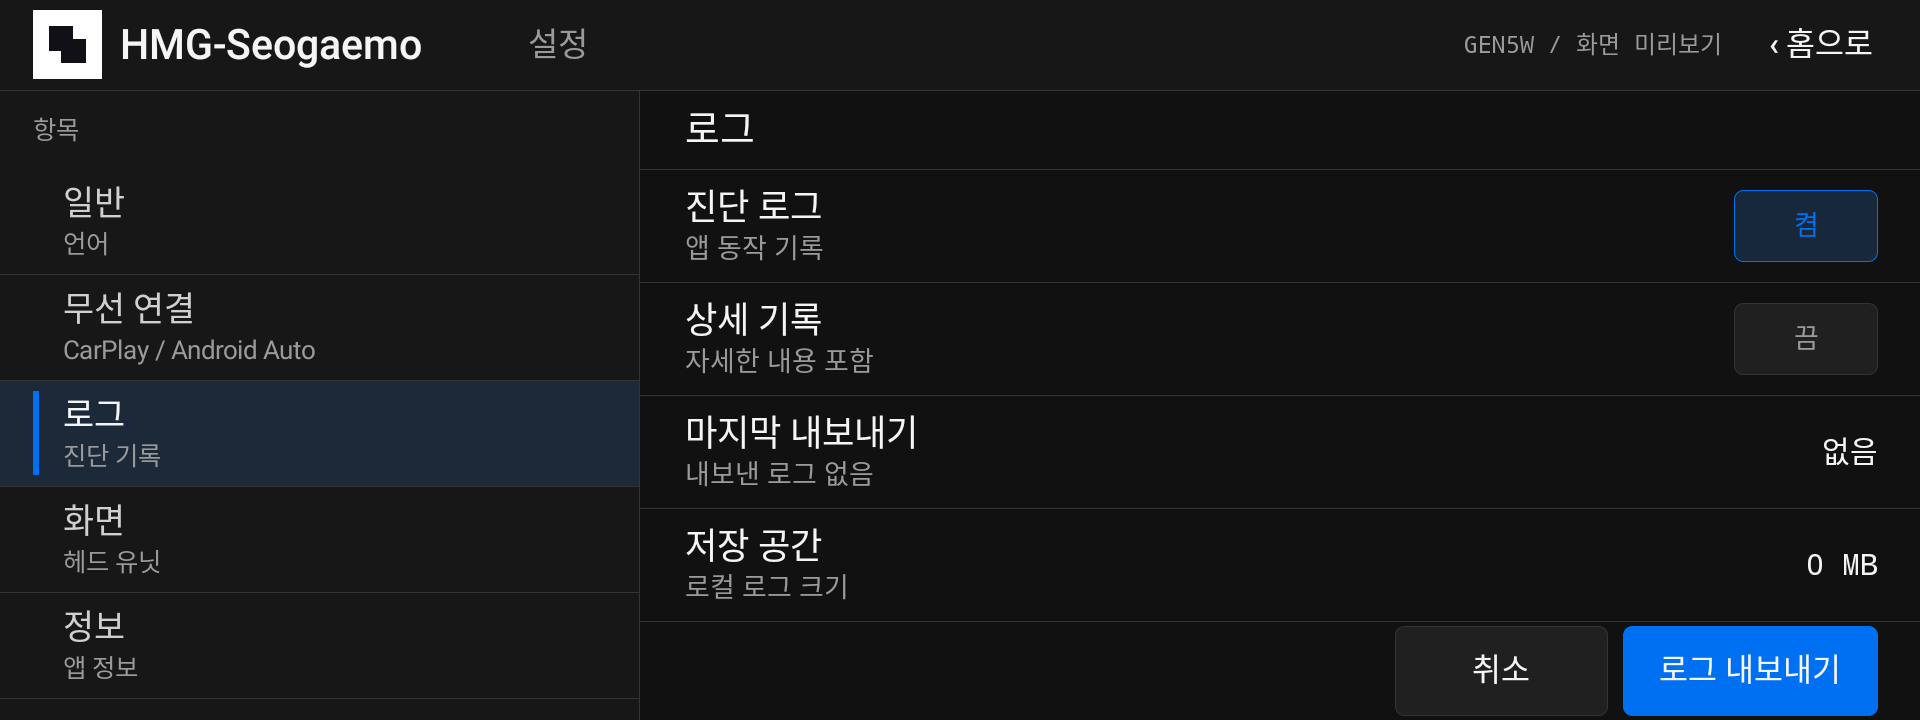
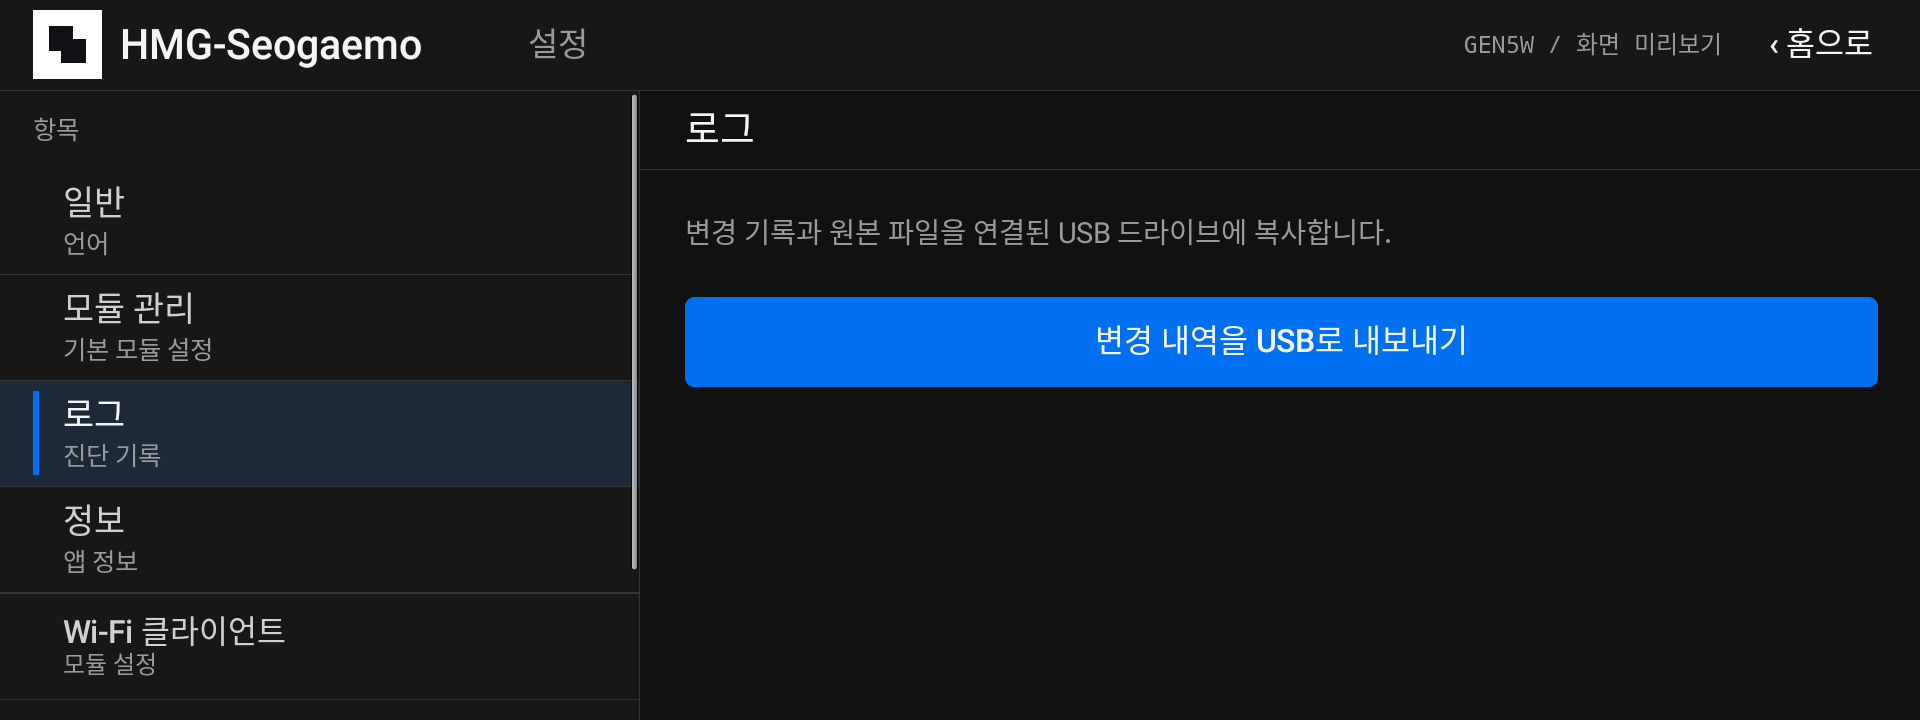
Refresh Korean UI screenshots and README

diff --git a/README.md b/README.md
@@ -1,23 +1,26 @@
 # hmg-seogaemo
 
-UI-only mock for the Gen5W head unit (1920×720, hdpi).
+Gen5W head-unit app (1920×720, hdpi) with built-in module settings and an OTA update screen. Home actions are visual placeholders.
 
 ## Screenshots
 
 ![Home](assets/home.png)
-Korean Home page 1 with six portrait mock tiles; Settings is first.
+Korean Home page 1; Settings opens the live module settings UI.
 
 ![Home page 2](assets/home-page2.png)
-Korean Home page 2 with the destructive Restart tile and remaining shortcuts.
+Korean Home page 2 with the remaining placeholder shortcuts.
 
 ![General settings](assets/settings-general.png)
-Korean Settings with the Language choice selected.
+Korean General settings with language, installed version, update check, and rollback controls.
 
-![Wireless settings](assets/settings-wireless.png)
-Korean Settings with Wireless projection selected.
+![Modules](assets/settings-modules.png)
+Korean Modules page with built-in module status. The emulator has no NEMESIS root service, so live status is unavailable in this capture.
+
+![Wireless ADB](assets/settings-wireless-adb.png)
+Korean Wireless ADB settings with connection details and guidance.
+
+![Wi-Fi client](assets/settings-wifi-client.png)
+Korean Wi-Fi client settings with its stock Wi-Fi action.
 
 ![Logs settings](assets/settings-logs.png)
-Korean Settings with Logs selected.
-
-![Pressed home action](assets/home-pressed.png)
-Restart head unit tile while pressed; no command runs.
+Korean Logs page with the USB change export action.
